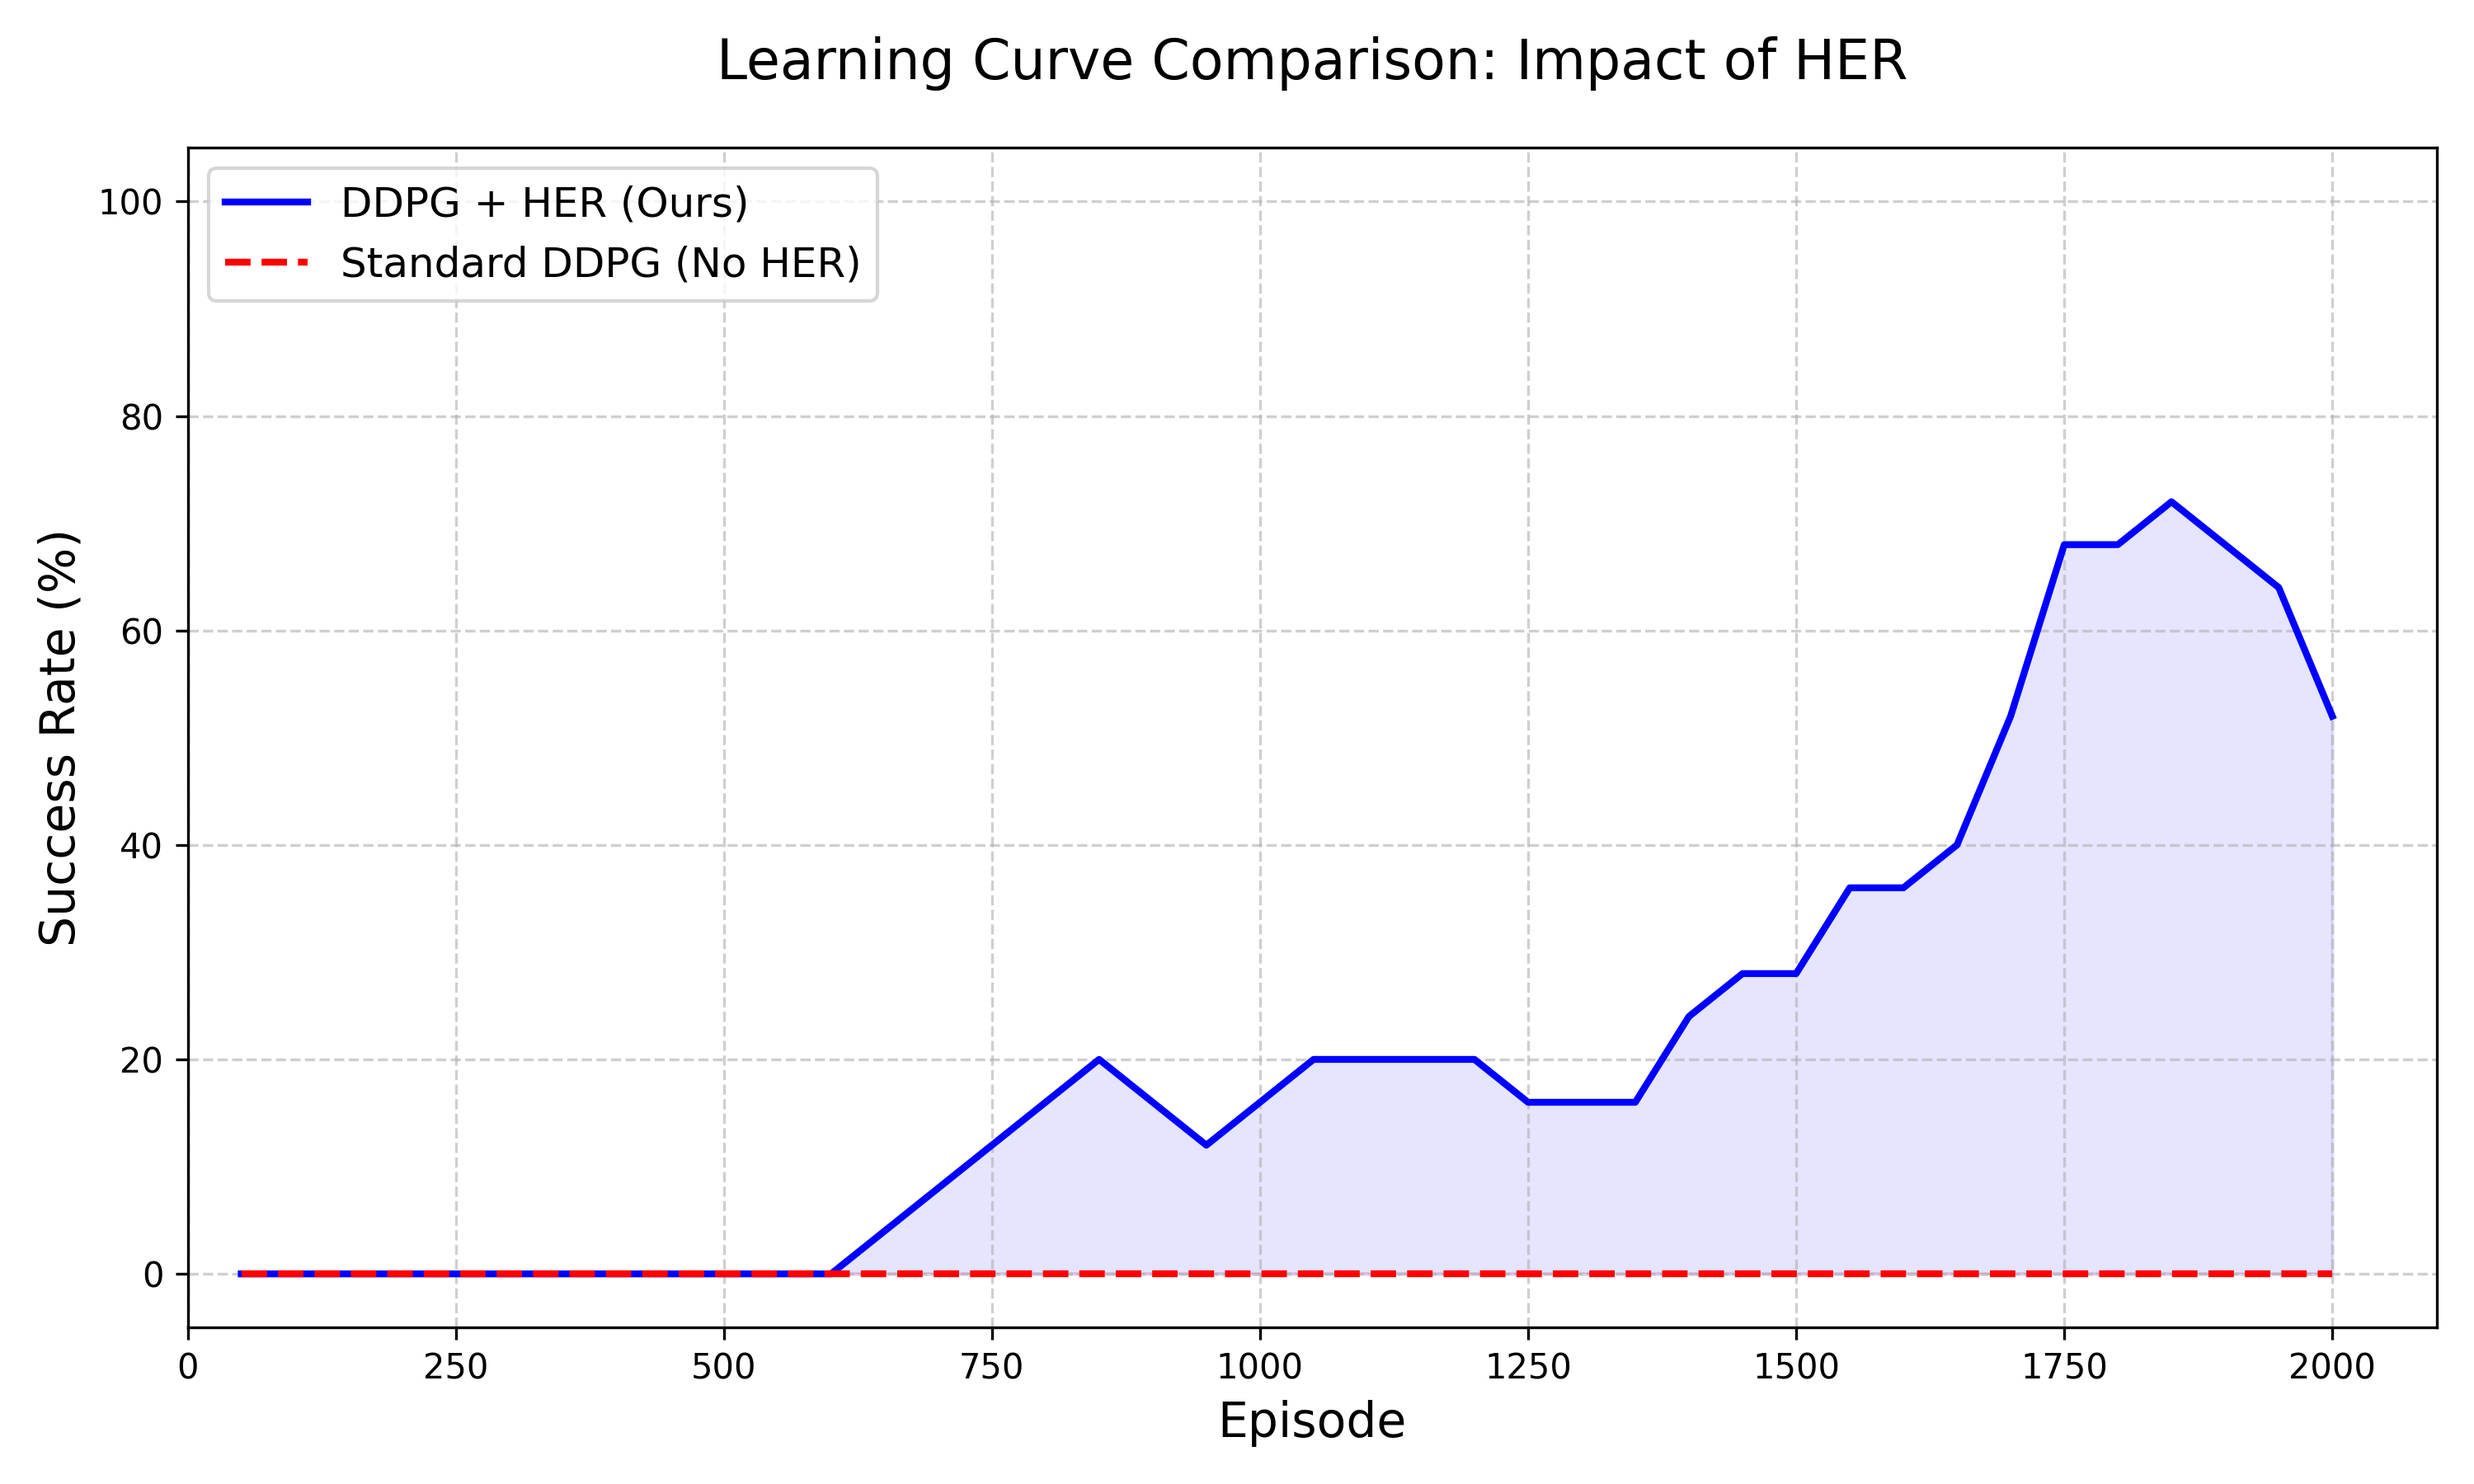
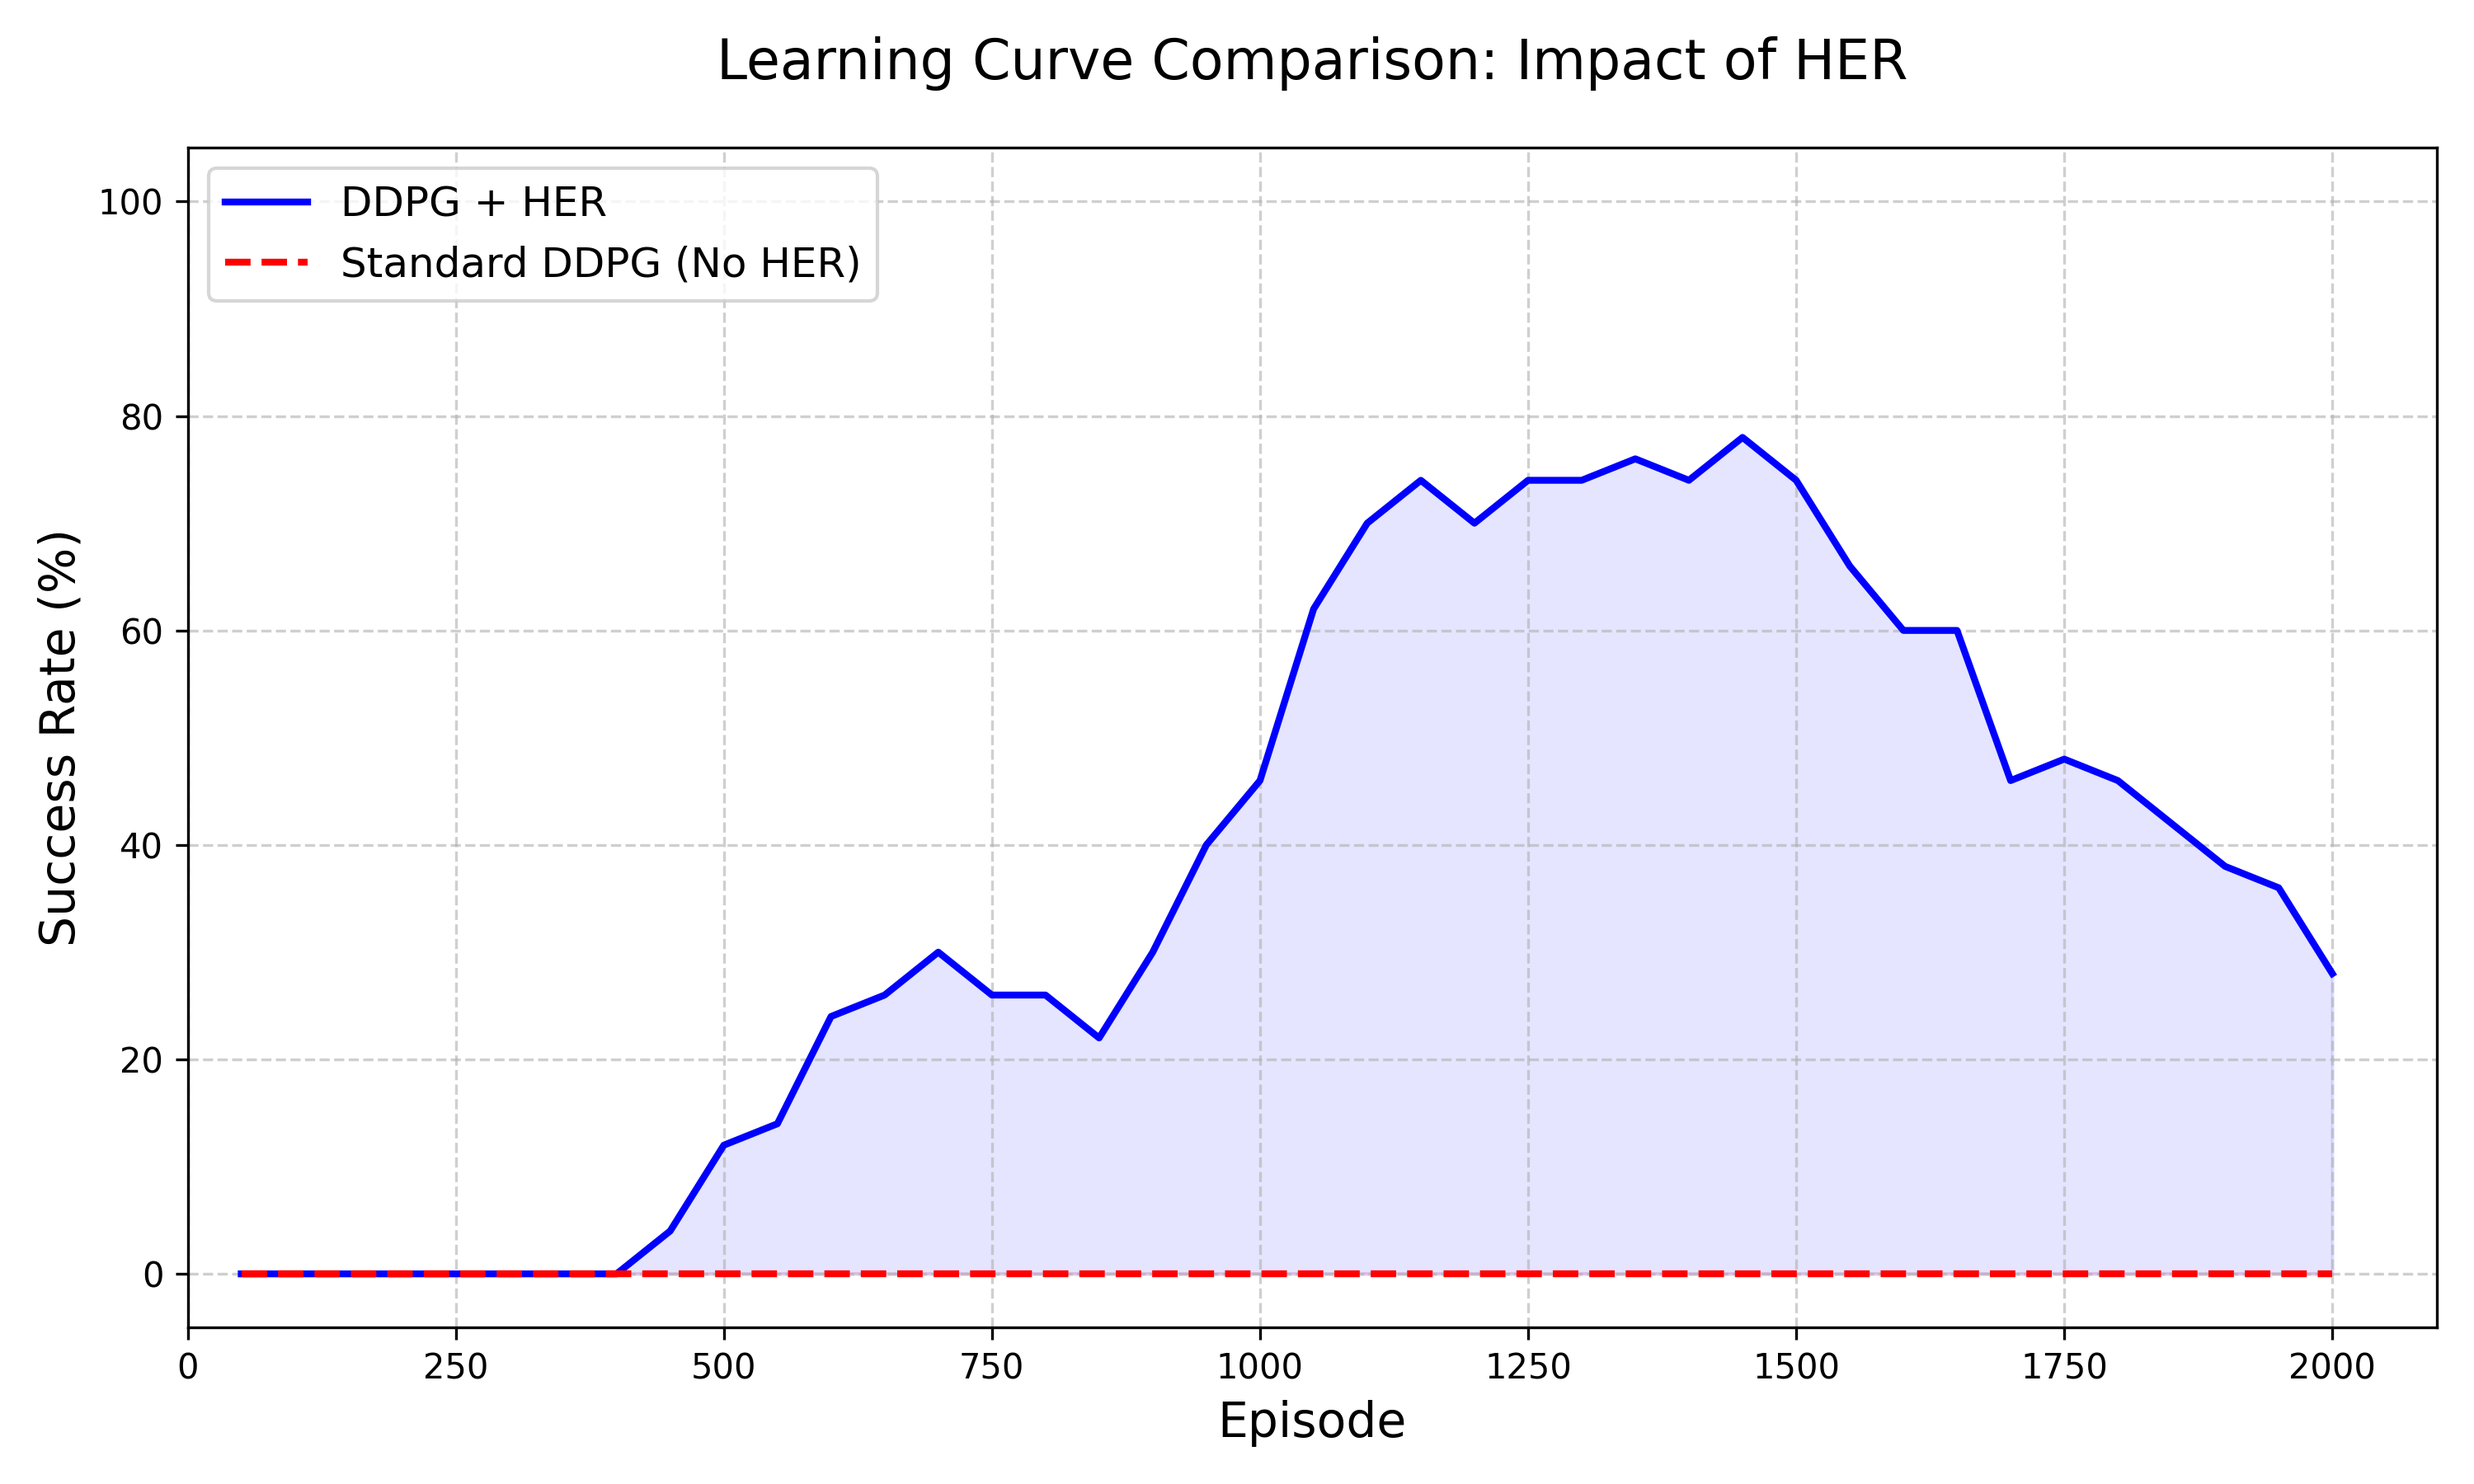
Add detailed comparison plots and update training logs
Introduced the plot_detailed_comparisons function in visual_train_ddpg.py to generate advanced comparative graphs for HER vs baseline DDPG. Updated CLI to include an option for plotting additional metrics. Renamed and added final training log CSVs, and updated the comparison plot image for parallel parking results.

Changed region(s): [[0.248, 0.28, 0.961, 0.8711], [0.248, 0.1244, 0.31, 0.1556], [0.155, 0.1244, 0.186, 0.1556]]

diff --git a/experiments/visual_train_ddpg.py b/experiments/visual_train_ddpg.py
@@ -361,7 +361,7 @@ def plot_training_results():
     Plots learning curves from CSV logs.
     Auto-detects if data is 0-1 or 0-100 to prevent scaling errors.
     """
-    her_path = os.path.join(RESULTS_DIR, "training_log.csv")
+    her_path = os.path.join(RESULTS_DIR, "training_log_final.csv")
     no_her_path = os.path.join(RESULTS_DIR, "training_log_no_her.csv")
     
     plt.figure(figsize=(10, 6))
@@ -388,7 +388,7 @@ def plot_training_results():
             df_her = pd.read_csv(her_path)
             y_values = process_data(df_her, 'Success', window=5)
             
-            plt.plot(df_her['Episode'], y_values, label='DDPG + HER (Ours)', color='blue', linewidth=2)
+            plt.plot(df_her['Episode'], y_values, label='DDPG + HER', color='blue', linewidth=2)
             plt.fill_between(df_her['Episode'], y_values, alpha=0.1, color='blue')
         except Exception as e:
             print(f"Error reading HER log: {e}")
@@ -425,6 +425,102 @@ def plot_training_results():
     print(f"Comparison graph saved to: {plot_path}")
     plt.show()
 
+def plot_detailed_comparisons():
+    """
+    Generates professional comparative graphs for the report:
+    1. Average Reward: HER (Blue) vs Baseline (Red)
+    2. Episode Length: HER (Blue) vs Baseline (Red)
+    3. Behavior Profile: HER Only (Stacked Area Chart)
+    """
+    her_path = os.path.join(RESULTS_DIR, "training_log_final.csv")
+    no_her_path = os.path.join(RESULTS_DIR, "training_log_no_her.csv")
+    
+    # --- HELPER FUNCTION ---
+    def load_and_smooth(path, window=10):
+        if not os.path.exists(path): return None
+        df = pd.read_csv(path)
+        # Force numeric
+        for c in ['Reward', 'Steps', 'Success', 'Crash']: 
+            if c in df.columns: df[c] = pd.to_numeric(df[c], errors='coerce')
+        
+        # Smooth
+        df['Reward_Smooth'] = df['Reward'].rolling(window=window).mean()
+        df['Steps_Smooth'] = df['Steps'].rolling(window=window).mean()
+        return df
+
+    df_her = load_and_smooth(her_path)
+    df_no = load_and_smooth(no_her_path)
+
+    # =========================================================
+    # GRAPH 1: REWARD COMPARISON (HER vs Baseline)
+    # =========================================================
+    plt.figure(figsize=(10, 6))
+    plt.grid(True, linestyle='--', alpha=0.6)
+    
+    if df_her is not None:
+        plt.plot(df_her['Episode'], df_her['Reward_Smooth'], color='blue', linewidth=2, label='DDPG + HER')
+        plt.fill_between(df_her['Episode'], df_her['Reward_Smooth'], alpha=0.1, color='blue')
+        
+    if df_no is not None:
+        plt.plot(df_no['Episode'], df_no['Reward_Smooth'], color='red', linewidth=2, linestyle='--', label='Baseline (No HER)')
+    
+    plt.title("Reward Convergence: HER vs Baseline", fontsize=16)
+    plt.xlabel("Episode", fontsize=14)
+    plt.ylabel("Average Reward (Smoothed)", fontsize=14)
+    plt.legend(loc='lower right', fontsize=12)
+    plt.savefig(os.path.join(RESULTS_DIR, "compare_reward.png"), dpi=300)
+    print("Saved: compare_reward.png")
+
+    # =========================================================
+    # GRAPH 2: EFFICIENCY (STEPS) COMPARISON
+    # =========================================================
+    plt.figure(figsize=(10, 6))
+    plt.grid(True, linestyle='--', alpha=0.6)
+    
+    if df_her is not None:
+        plt.plot(df_her['Episode'], df_her['Steps_Smooth'], color='blue', linewidth=2, label='DDPG + HER')
+        
+    if df_no is not None:
+        plt.plot(df_no['Episode'], df_no['Steps_Smooth'], color='red', linewidth=2, linestyle='--', label='Baseline')
+
+    plt.title("Parking Efficiency: Steps to Finish", fontsize=16)
+    plt.xlabel("Episode", fontsize=14)
+    plt.ylabel("Avg Steps", fontsize=14)
+    plt.legend(loc='upper right', fontsize=12)
+    plt.savefig(os.path.join(RESULTS_DIR, "compare_efficiency.png"), dpi=300)
+    print("Saved: compare_efficiency.png")
+
+    # =========================================================
+    # GRAPH 3: BEHAVIOR PROFILE (HER AGENT ONLY)
+    # =========================================================
+    # We only show this for the HER agent to explain "How it learned"
+    if df_her is not None:
+        plt.figure(figsize=(10, 6))
+        
+        # Scaling logic
+        scale = 100 if df_her['Success'].max() <= 1.0 else 1
+        win = 20 # Higher smoothing for area chart
+        
+        s = df_her['Success'].rolling(window=win, min_periods=1).mean() * scale
+        c = df_her['Crash'].rolling(window=win, min_periods=1).mean() * scale
+        t = 100 - (s + c)
+        t = t.clip(lower=0)
+
+        plt.stackplot(df_her['Episode'], s, c, t,
+                      labels=['Success (Parked)', 'Crash', 'Timeout/ Exploring'],
+                      colors=['#2ecc71', '#e74c3c', '#bdc3c7'], alpha=0.85)
+        
+        plt.title("Learning Phases (HER Agent)", fontsize=16)
+        plt.xlabel("Episode", fontsize=14)
+        plt.ylabel("Outcome Probability (%)", fontsize=14)
+        plt.legend(loc='center right')
+        plt.margins(0,0)
+        plt.savefig(os.path.join(RESULTS_DIR, "behavior_profile_her.png"), dpi=300)
+        print("Saved: behavior_profile_her.png")
+    
+    plt.show()
+
+
 if __name__ == "__main__":
     print("Pick training mode:")
     print("1. Train DDPG + HER (Saves to training_log.csv)")
@@ -432,7 +528,8 @@ if __name__ == "__main__":
     print("3. Test saved model")
     print("4. Resume DDPG + HER")
     print("5. Plot Comparison Graph")
-    print("6. Train Baseline No HER (Saves to training_log_no_her.csv)")  # <--- NEW
+    print("6. Train Baseline No HER (Saves to training_log_no_her.csv)")
+    print("7. Plot Additional Metrics from HER Training Log")
 
     choice = input("Enter choice (1-6): ").strip()
 
@@ -450,5 +547,7 @@ if __name__ == "__main__":
         plot_training_results()
     elif choice == "6":
         visual_training_demo(resume=False, use_her=False)
+    elif choice == "7":
+        plot_detailed_comparisons()
     else:
         print("Invalid choice.")
